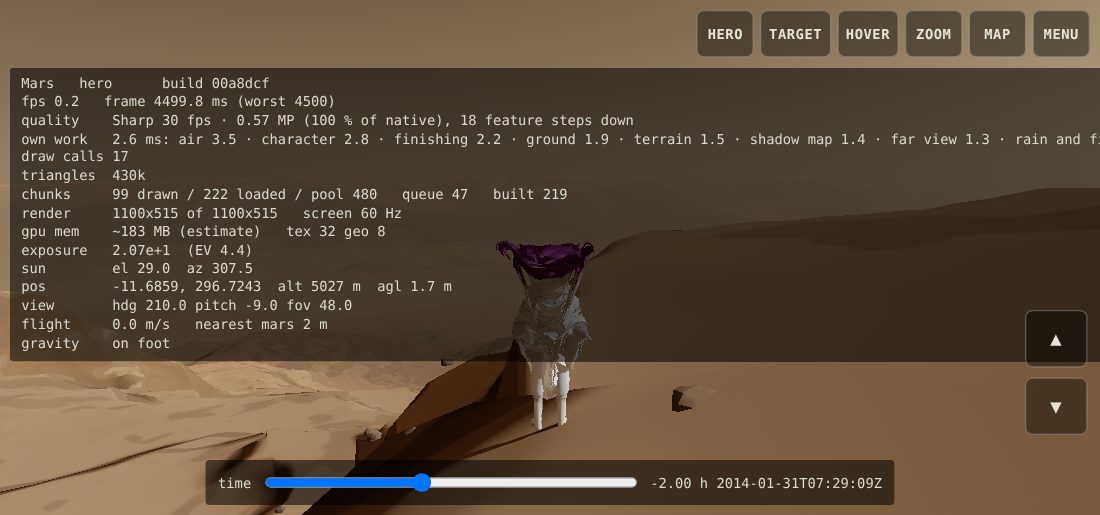
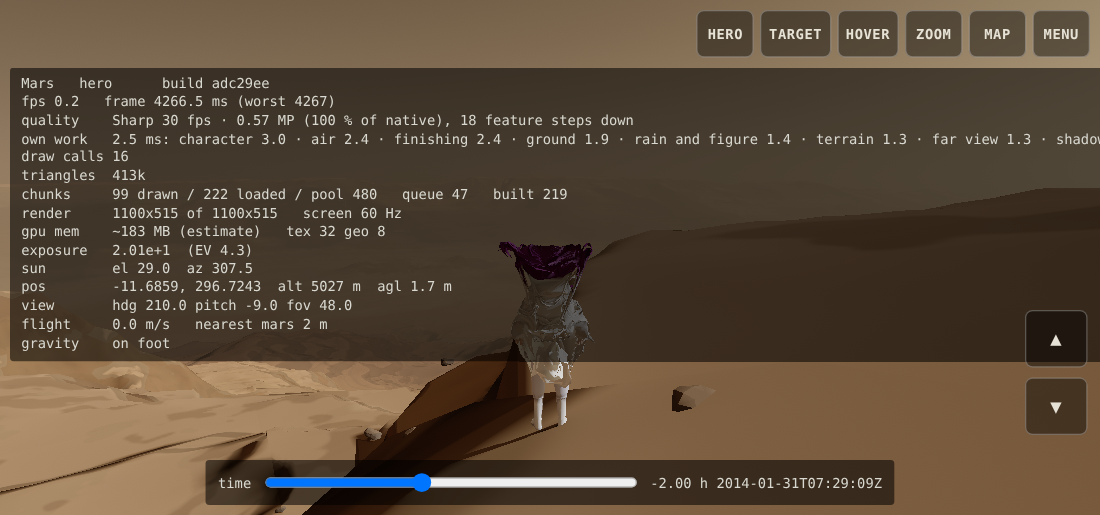
Notes: the eleventh results read (a fixed cost with nothing drawn has doubled since the tenth); the smoke test's pictures
Claude-Session: https://claude.ai/code/session_01R5BrhzGbvM5Mm4BP5vZBtE

diff --git a/docs/PROGRESS.md b/docs/PROGRESS.md
@@ -78,9 +78,33 @@ back on 29).
 eases between the run and a stop beyond the gait's fade; super speed's sleeves whip
 roughly (bounded in `hero-bind-test`).
 
-**The results**: a reader with the governor's simulation is on them (its findings go here);
-the sky's costs at the ledge (fog and mist 8.1 ms, cloud-steps 7.9, cloud-volume 4.5,
-middle and high cloud 4.5, lens clouds 3.2) go to the sky helper.
+**The results, read** (one reader with the governor's simulation, 2026-11-27; no file
+changed, because no change it tried survived the simulation):
+- against the tenth: frames of three refreshes or more 8.4 -> 6.3 %, the picture 2.59 ->
+  3.41 MP on average; Haven's heavy stops as late as before with 1 MP more (ledge 25.9 ->
+  23.9 fps, sun 28.9 -> 27.8, ship 26.7 -> 27.1); the Moon steady.
+- **the one large, believable number: with nothing drawn a frame takes 47.0 / 54.5 / 39.6 ms
+  in the three cost views, where the tenth had 22.7 / 26.1 / 26.2.** Something paid every
+  frame whatever is on screen has come in since e9d4888, 13 to 28 ms of it by this measure,
+  and the benchmark's "everything out" does not take it out: the sky's own passes are the
+  first suspect (the clouds' shade map, the field's maps, the fog sheet, the upper cloud),
+  the shadow maps the second. Handed to the sky helper. Every single saving in the tables
+  is noise (from the air `tree-leaves` reads 18.2 ms with no tree drawn).
+- it is not the tenth's hunting: savings follow the route (off at the ledge and the sun, back
+  at the wall, off again at the ship, a cycle in 36 s); no trial on Haven reached a verdict,
+  a jump closing each after 12 s. 2.67 MP is not the floor (1.60 is) but the level a Sharp
+  visit starts at and holds from both sides (`governor.js`, KEEP).
+- a hole the simulation's cases miss: at one view for five minutes with a share of frames
+  late whatever is drawn, the governor ends with most savings on in 6 to 8 runs of 8 (a
+  trial closes "as cured" after three quiet seconds without checking; the share left alone
+  is capped at 12 %). Nine kinds of change were tried; each failed an existing case or
+  moved the failure. Scratch files of the attempt were in the session's scratchpad
+  (`gov11/`), not kept.
+- **what would settle it, on the phone**: two runs of the Haven benchmark with the picture
+  held at one size, `?bench=haven&scale=0.775` and `?bench=haven&scale=0.775&debug=floor`:
+  the same late shares at the ledge and the ship in both means the governor should hold
+  quality and its trial rules need a rework; clean with every saving on means savings do
+  cure and the cost test should measure them in groups. Asked of the owner.
 
 ### Helpers running since 2026-11-27 04:40 UTC (the owner: "you can use more than one session ... no more than 4")
 
